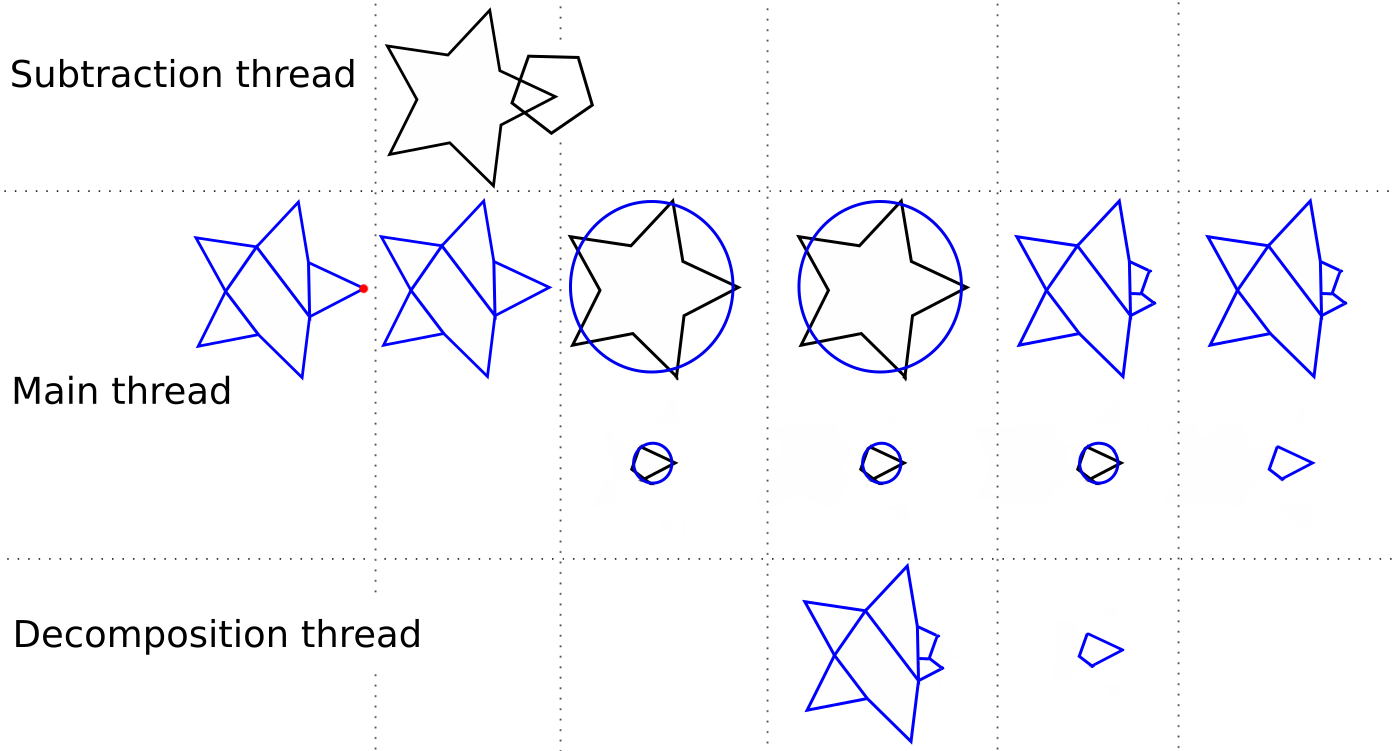
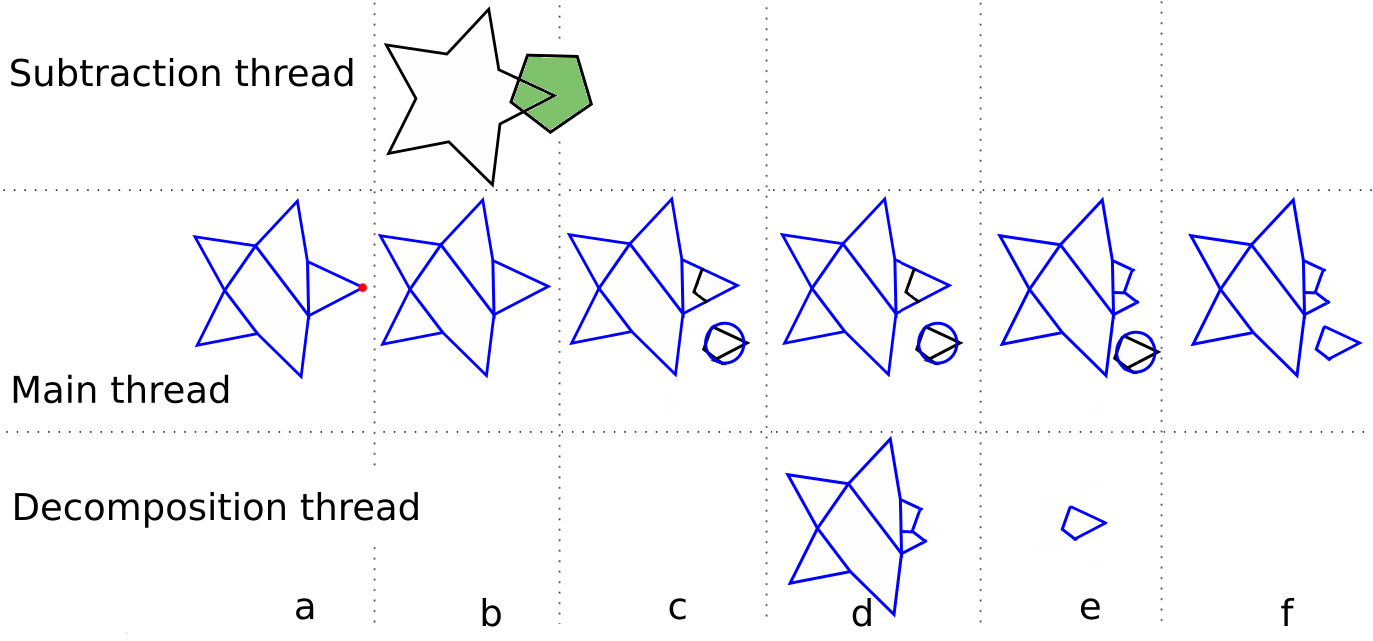
Update on Overleaf.

diff --git a/chap03.tex b/chap03.tex
@@ -49,20 +49,20 @@ A use of a larger thread pool could be useful for convex decomposition. The conf
 \begin{figure}
         \centering
         \includegraphics[width=\textwidth]{img/object-progress}
-        \caption{Simplified overview of changing states of a single object across multiple threads in simultaneous time slots. We can see the process of splitting the mesh and calculation of collision shapes from the time of the collision until the convex decomposition is calculated for all parts. Blue lines represent the collision shape. Black lines represent the visual mesh (not shown if it is the same as the collision shape), red dot represents the collision point.}
+        \caption{Simplified overview of collision handling across multiple threads in simultaneous time slots. a) collision was detected (red), b) Voronoi cell (green) and is being subtracted from the original mesh (black) in subtraction thread, c)the result of subtraction are two objects --- one one without change in collision shape (blue) and one with temporary spherical shape, d and e) new collisions shapes are computed in decomposition thread, f) final result}
         \label{fig:objectInThreads}
 \end{figure}
 
 \section{Collision handling}
 \label{sec:collisions}
-\todo{odkud se vemou ty reference?}
-After the collision, we get a reference to two rigid bodies participating in the collision, point of collision and vector of force from the physics engine. For simplification, we will consider only one object, the point of impact and the force.
+After the collision, physics engine gives us a reference to two rigid bodies participating in the collision, point of collision and vector of force. For simplification, we will consider only one object, the point of impact and the force.
 
 At first, we need to filter out unwanted collisions (collisions that should not damage the object). Those collisions can be results of an object placed on ground or collisions with not enough force to damage the object. 
 
-For every valid\todo{`valid' znamena `not unwanted' z predchoziho odstavce?} collision, we generate Voronoi cell as described before, and put \todo{move?} meshes of both objects into a task for mesh subtraction thread. After enqueuing all collisions, we can check if there are any prepared subtraction results for further use. The result of one subtraction task is a set of meshes that represent new objects. For every mesh, we create a new object, but we do not have its convex decomposition for the physics engine to perform accurate collision detection. Because the decomposition can take relatively long, we create a simple temporary collision shape (\eg sphere) and a task for decomposition\todo{of the sphere?}. Then we proceed with simulation, not waiting for the result. Decomposition is done in a separate thread, and the result is returned to the main thread where we check for decomposed shapes. With the shape ready in the main thread we replace the temporary shape for compound shape consisting of convex parts.
+For every collision we decide to perform destruction on, we generate Voronoi cell as described before, and move meshes of both objects into a task for mesh subtraction thread. After enqueuing all collisions, we can check if there are any prepared subtraction results for further use. The result of one subtraction task is a set of meshes that represent new objects. For every mesh, we create a new object, but we do not have its convex decomposition for the physics engine to perform accurate collision detection. Because the decomposition can take relatively long, we create a simple temporary collision shape (\eg sphere) for the new objects and keep using the current collision shape for the original object. Then we create tasks for decomposition of current meshes into new collision shapes and proceed with simulation, not waiting for the result. Decomposition is done in a separate thread, and the result is returned to the main thread where we check for decomposed shapes. With the shape ready in the main thread we replace the temporary shape for compound shape consisting of convex parts.
 
-This process guarantees that we do not wait for either subtraction or decomposition and therefore we can have stable fps in our game. Temporarily replacing a collision shape by a simpler alternative ensures consistent behaviour of new objects (we can put them into the simulation, and they do not fall through each other or otherwise not comply with laws of physics)\todo{prvni veta je OK, ale druha uz neni uplne pravda --- kdyz strelis do krychle a chvilku ji nahradis kouli, okoli muze slusne explodovat... To by chtelo bud dovysvetlit presnejc, nebo rict ze ty temporary collision shapes jsou dostatecne podobny (a jak jsi toho docilil). Nasledujici veta by nemela zacinat `Therefore' --- spis neco jako ze nedostatecnej vykon pri pocitani meshu kterej by se jinak podepsal na vykyvech ve FPS jsi nahradil tim ze u slozitejch akci trva dyl nez se projevej.}. Therefore we need to calculate the difference of meshes in a period of a few frames so it can not be seen that it is lagging behind collisions.
+This process guarantees that we do not wait for either subtraction or decomposition and therefore we can have stable fps in our game.  It is better for the gameplay to have stable fps and lag behind with the simulation because poor performance in the main loop of the games makes the game stuttering. Meanwhile, a destruction happening a few frames later can be covered in animations of dust. To ensure consistent behaviour of new objects (we can put them into the simulation, and they do not fall through each other or otherwise not comply with laws of physics) when using a temporary collision shape, we need to make the temporary shape resemble the mesh as much as possible.  For the already existing objects keeping the older collision shape for a while longer should not disturb the simulation as the closest objects to this space are a newly generated object, those should be thrown away from the point of collision either way. For the new object, we use the sphere with the diameter equal to the shortest edge of the objects bounding box, meaning that the newly created objects have smaller collision shapes than meshes. The experiments showed that this factor does not visually impact simulation and the presence of the collision shape ensures that the object will not fall through other objects. 
+
 
 \section{Convex Decomposition}
 \label{sec:decomposition}
